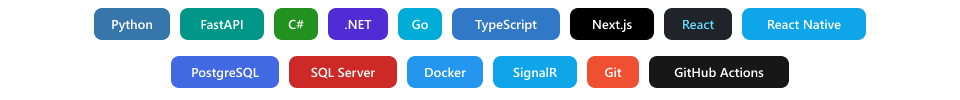
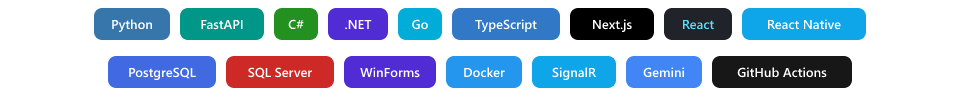
Feature DevaSoft and refresh profile README from current repos

Changed region(s): [[0.0938, 0.54, 0.9062, 0.9]]

diff --git a/scripts/generate-typing-gif.js b/scripts/generate-typing-gif.js
@@ -1,0 +1,76 @@
+const fs = require("fs");
+const path = require("path");
+const { createRequire } = require("module");
+const homeRequire = createRequire("C:\\Users\\hp\\node_modules\\gifenc\\package.json");
+const { Resvg } = homeRequire("@resvg/resvg-js");
+const { PNG } = homeRequire("pngjs");
+const { GIFEncoder, quantize, applyPalette } = homeRequire("gifenc");
+
+const outFile = path.join(__dirname, "..", "assets", "typing.gif");
+const WIDTH = 760;
+const HEIGHT = 68;
+
+const lines = [
+  "Hi, I'm K\u00fcbra.",
+  "Software Engineering @ F\u0131rat University",
+  "APIs, full-stack apps and desktop systems",
+  "Open to internships and junior roles",
+];
+
+function esc(s) {
+  return String(s)
+    .replace(/&/g, "&amp;")
+    .replace(/</g, "&lt;")
+    .replace(/>/g, "&gt;");
+}
+
+function frameSvg(typed, cursorOn) {
+  const cursor = cursorOn
+    ? `<tspan fill="#e879f9">\u258c</tspan>`
+    : `<tspan fill="#161b22">\u00a0</tspan>`;
+  return `<svg xmlns="http://www.w3.org/2000/svg" width="${WIDTH}" height="${HEIGHT}" viewBox="0 0 ${WIDTH} ${HEIGHT}">
+  <rect width="${WIDTH}" height="${HEIGHT}" fill="#0d1117"/>
+  <rect x="6" y="8" width="${WIDTH - 12}" height="52" rx="12" fill="#161b22" stroke="#a855f7" stroke-width="2"/>
+  <text x="28" y="43" font-family="Consolas, Courier New, monospace" font-size="20" font-weight="700" fill="#22d3ee">&gt;</text>
+  <text x="52" y="43" font-family="Consolas, Courier New, monospace" font-size="20" font-weight="600" fill="#c084fc">${esc(typed)}${cursor}</text>
+</svg>`;
+}
+
+function renderRgba(svg) {
+  const png = PNG.sync.read(Buffer.from(new Resvg(svg, { fitTo: { mode: "width", value: WIDTH } }).render().asPng()));
+  return { data: new Uint8Array(png.data), width: png.width, height: png.height };
+}
+
+function chars(s) {
+  return [...s];
+}
+
+const scenes = [];
+for (const line of lines) {
+  const letters = chars(line);
+  for (let i = 1; i <= letters.length; i += 1) {
+    scenes.push({ text: letters.slice(0, i).join(""), cursor: true, delay: 70 });
+  }
+  for (let b = 0; b < 8; b += 1) {
+    scenes.push({ text: line, cursor: b % 2 === 0, delay: 180 });
+  }
+  for (let i = letters.length - 1; i >= 0; i -= 2) {
+    scenes.push({ text: letters.slice(0, Math.max(i, 0)).join(""), cursor: true, delay: 35 });
+  }
+  scenes.push({ text: "", cursor: true, delay: 200 });
+}
+
+console.log("frames", scenes.length);
+const gif = GIFEncoder();
+let palette;
+for (let i = 0; i < scenes.length; i += 1) {
+  const scene = scenes[i];
+  const { data, width, height } = renderRgba(frameSvg(scene.text, scene.cursor));
+  if (!palette) palette = quantize(data, 64);
+  const index = applyPalette(data, palette);
+  gif.writeFrame(index, width, height, { palette, delay: scene.delay, repeat: i === 0 ? 0 : undefined });
+  if (i % 40 === 0) console.log("encoded", i);
+}
+gif.finish();
+fs.writeFileSync(outFile, Buffer.from(gif.bytes()));
+console.log("wrote", outFile, fs.statSync(outFile).size);

diff --git a/scripts/render-assets.js b/scripts/render-assets.js
@@ -109,6 +109,16 @@ card("card-taksimetre.png", {
   dot: "#f1e05a",
 });
 
+card("card-devasoft.png", {
+  title: "DevaSoft",
+  tag: "Desktop \u00b7 AI",
+  line1: "Pharmacy / herbal shop automation",
+  line2: "Inventory, sales, orders, Gemini content",
+  stack: "C# \u00b7 WinForms \u00b7 SQL Server \u00b7 Gemini",
+  accent: "#34d399",
+  dot: "#178600",
+});
+
 card("card-portfolio.png", {
   title: "Portfolio",
   tag: "Live site",
@@ -121,7 +131,7 @@ card("card-portfolio.png", {
 
 const badges = [
   [["Python", "#3776AB"], ["FastAPI", "#009688"], ["C#", "#239120"], [".NET", "#512BD4"], ["Go", "#00ADD8"], ["TypeScript", "#3178C6"], ["Next.js", "#000000"], ["React", "#20232A", "#61DAFB"], ["React Native", "#0EA5E9"]],
-  [["PostgreSQL", "#4169E1"], ["SQL Server", "#CC2927"], ["Docker", "#2496ED"], ["SignalR", "#0EA5E9"], ["Git", "#F05032"], ["GitHub Actions", "#181717"]],
+  [["PostgreSQL", "#4169E1"], ["SQL Server", "#CC2927"], ["WinForms", "#512BD4"], ["Docker", "#2496ED"], ["SignalR", "#0EA5E9"], ["Gemini", "#4285F4"], ["GitHub Actions", "#181717"]],
 ];
 
 function badgeRow(row, y, totalWidth) {

diff --git a/README.md b/README.md
@@ -14,48 +14,50 @@
 
 ## About
 
-I'm a final-year Software Engineering student at Fırat University, focused on backend and full-stack development. I design REST APIs and build the web and mobile clients that use them, mostly with .NET, Python and TypeScript.
+I'm a final-year Software Engineering student at Fırat University. I build backend APIs, full-stack products and Windows desktop systems, mostly with C#/.NET, Python and TypeScript.
 
-I'm looking for **software engineering internships and junior backend or full-stack roles**.
+Open to **internships and junior backend / full-stack roles**.
 
-- **Currently building:** [TerraVision](https://github.com/kubradmrgc/TerraVision), a plant marketplace with AR preview and real-time updates across web and mobile
-- **Interested in:** API design, clean architecture, data pipelines and applied LLMs
+- **Now shipping:** [DevaSoft](https://github.com/kubradmrgc/AktarOtomasyonu-DevaSoft) — pharmacy automation with inventory, sales and Gemini-assisted product content
+- **Also active:** [TerraVision](https://github.com/kubradmrgc/TerraVision) — plant marketplace (web + mobile) on one ASP.NET Core API
+- **Focus:** clean layered architecture, SQL-backed systems, REST APIs and applied LLMs
 
 ## Featured Projects
 
 <div align="center">
 
+[![DevaSoft](assets/card-devasoft.png)](https://github.com/kubradmrgc/AktarOtomasyonu-DevaSoft)
 [![TerraVision](assets/card-terravision.png)](https://github.com/kubradmrgc/TerraVision)
-[![CVE Analysis Assistant](assets/card-cve.png)](https://github.com/kubradmrgc/akilli-cve-analizi)
 
+[![CVE Analysis Assistant](assets/card-cve.png)](https://github.com/kubradmrgc/akilli-cve-analizi)
 [![Taksimetre](assets/card-taksimetre.png)](https://kubradmrgc.github.io/taksimetre/)
-[![Portfolio](assets/card-portfolio.png)](https://kubradmrgc.github.io/portfolio/)
 
 </div>
 
+### [DevaSoft](https://github.com/kubradmrgc/AktarOtomasyonu-DevaSoft)
+
+Windows desktop automation for herbal / pharmacy shops: products, stock, sales, purchase orders, role-based access and audit logs. Gemini generates product descriptions and usage notes. Layered C# services on SQL Server with DevExpress WinForms UI.
+
 ### [TerraVision](https://github.com/kubradmrgc/TerraVision)
 
-A plant e-commerce platform with AR product preview, a garden care planner, consultant chat and peer-to-peer item swaps. A single ASP.NET Core 9 API serves both a Next.js web app and a React Native mobile app, with real-time cart, order and chat updates over SignalR and a CI pipeline for all three.
+Plant e-commerce with AR product preview, garden care planning, consultant chat and peer-to-peer swaps. One ASP.NET Core 9 API serves Next.js web and React Native mobile, with SignalR for live cart, orders and chat, plus CI for all three.
 
 ### [CVE Analysis Assistant](https://github.com/kubradmrgc/akilli-cve-analizi)
 
-Pulls vulnerabilities from the NVD, summarizes and risk-scores them with an LLM, finds related CVEs through vector search and sends critical alerts to Telegram. Built with FastAPI, PostgreSQL with pgvector, and a React dashboard.
+Ingests NVD vulnerabilities, summarizes and risk-scores them with an LLM, finds related CVEs via vector search and alerts on critical findings through Telegram. FastAPI, PostgreSQL with pgvector and a React dashboard.
 
 ### [Taksimetre](https://github.com/kubradmrgc/taksimetre) · [live demo](https://kubradmrgc.github.io/taksimetre/)
 
-A taxi fare calculator covering all 81 provinces in Turkey, with live GPS trip tracking, route mapping and a taxi stand directory. Ships as an installable PWA.
-
-### [Portfolio](https://github.com/kubradmrgc/portfolio) · [live site](https://kubradmrgc.github.io/portfolio/)
-
-My personal site with project case studies, experience and contact details. Built with React, TypeScript, Vite and Tailwind CSS.
+Taxi fare calculator for all 81 provinces in Turkey, with live GPS trip tracking, route mapping and a taxi stand directory. Installable PWA.
 
 ## Other Work
 
 | Project | Description |
 |---------|-------------|
-| **QubIT** *(private)* | IT quiz platform with Go microservices, a React Native app, adaptive difficulty and a real-time leaderboard |
-| **akredid** *(private)* | Academic credential verification built on W3C DIDs and Verifiable Credentials; two-person team working in Scrum with ADRs |
-| [sigorta-dwh-pipeline](https://github.com/kubradmrgc/sigorta-dwh-pipeline) | Insurance data warehouse from OLTP to staging, DWH and data marts, built with Informatica CDI and MySQL |
+| [portfolio](https://kubradmrgc.github.io/portfolio/) | Personal site with case studies and contact — React, TypeScript, Vite, Tailwind |
+| **QubIT** *(private)* | IT quiz platform: Go services, React Native, adaptive difficulty, real-time leaderboard |
+| **akredid** *(private)* | Academic credential verification with W3C DIDs / Verifiable Credentials; two-person Scrum team |
+| [sigorta-dwh-pipeline](https://github.com/kubradmrgc/sigorta-dwh-pipeline) | Insurance DWH: OLTP → staging → warehouse → data marts (Informatica CDI + MySQL) |
 
 ## Tech Stack
 
@@ -68,14 +70,14 @@ My personal site with project case studies, experience and contact details. Buil
 | Area | Tools |
 |------|-------|
 | Languages | C#, TypeScript, Python, JavaScript, Go |
-| Backend | ASP.NET Core, FastAPI, SignalR, JWT |
+| Backend & desktop | ASP.NET Core, WinForms, FastAPI, SignalR, JWT |
 | Frontend & mobile | Next.js, React, React Native |
-| Data | PostgreSQL, pgvector, SQL Server, EF Core, MySQL |
-| Tooling | Docker, Git, GitHub Actions |
+| Data | SQL Server, PostgreSQL, pgvector, EF Core, MySQL, T-SQL |
+| AI & tooling | Gemini, Docker, Git, GitHub Actions |
 
 ## Contact
 
-Happy to talk about internships, junior roles or any of the projects above.
+Reach out for internships, junior roles or any project above.
 
 <div align="center">
 
